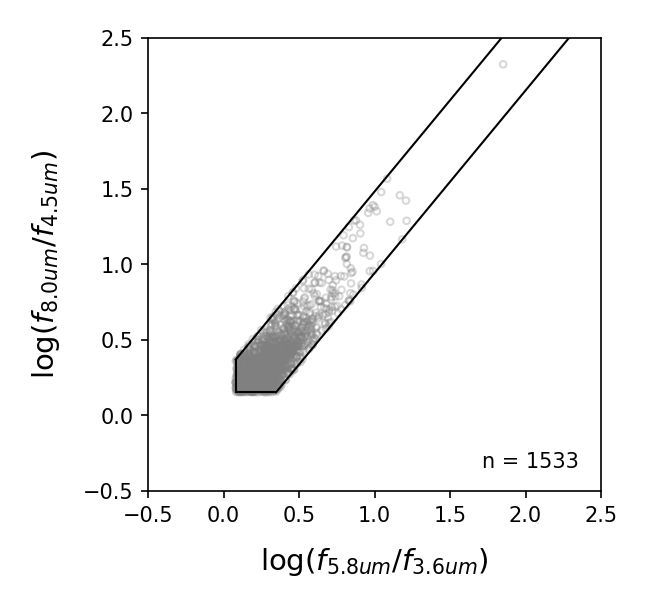
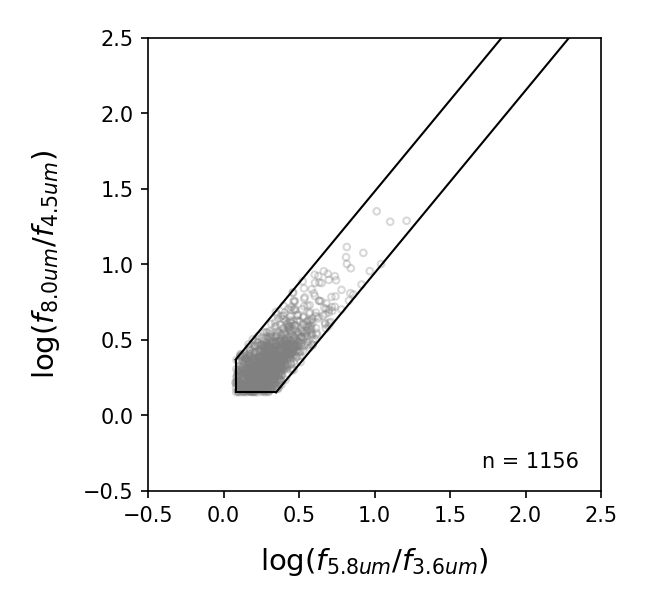
fix Donley AGN selection criterea

diff --git a/Code/plotting.py b/Code/plotting.py
@@ -91,6 +91,37 @@ def SourcesInDonleyWedge(x,y) :
     # return mask
     return(mask_inWedge)
 
+# returns a boolean mask that is True for sources that meet Donley 2012 AGN selection criteria 
+def SourcesDonleyCriteria(
+        f36,    # IRAC Ch 1
+        f45,    # IRAC Ch 2
+        f58,    # IRAC Ch 3
+        f80     # IRAC Ch 4
+    ) : 
+
+    # get x and y axis values 
+    x = np.log10(f58/f36)
+    y = np.log10(f80/f45)
+
+    # get sources in Donley wedge
+    mask_inWedge = SourcesInDonleyWedge(x,y)
+
+    # get sources that are monatomically rising
+    mask_mon = np.zeros(x.size, dtype=bool)
+    for i in range(len(x)) : 
+        if( f45[i] > f36[i] and
+            f58[i] > f45[i] and
+            f80[i] > f58[i]
+        ):
+            # set index to true
+            mask_mon[i] = True
+    
+    # get sources true in both masks 
+    mask_AGN = np.logical_and(mask_inWedge, mask_mon)
+
+    # return mask
+    return(mask_AGN)
+
 # add 'n = #' to bottom right of plot
 def addtext_n(n, pre='n = '):
     plt.text(   0.95,                           # x
